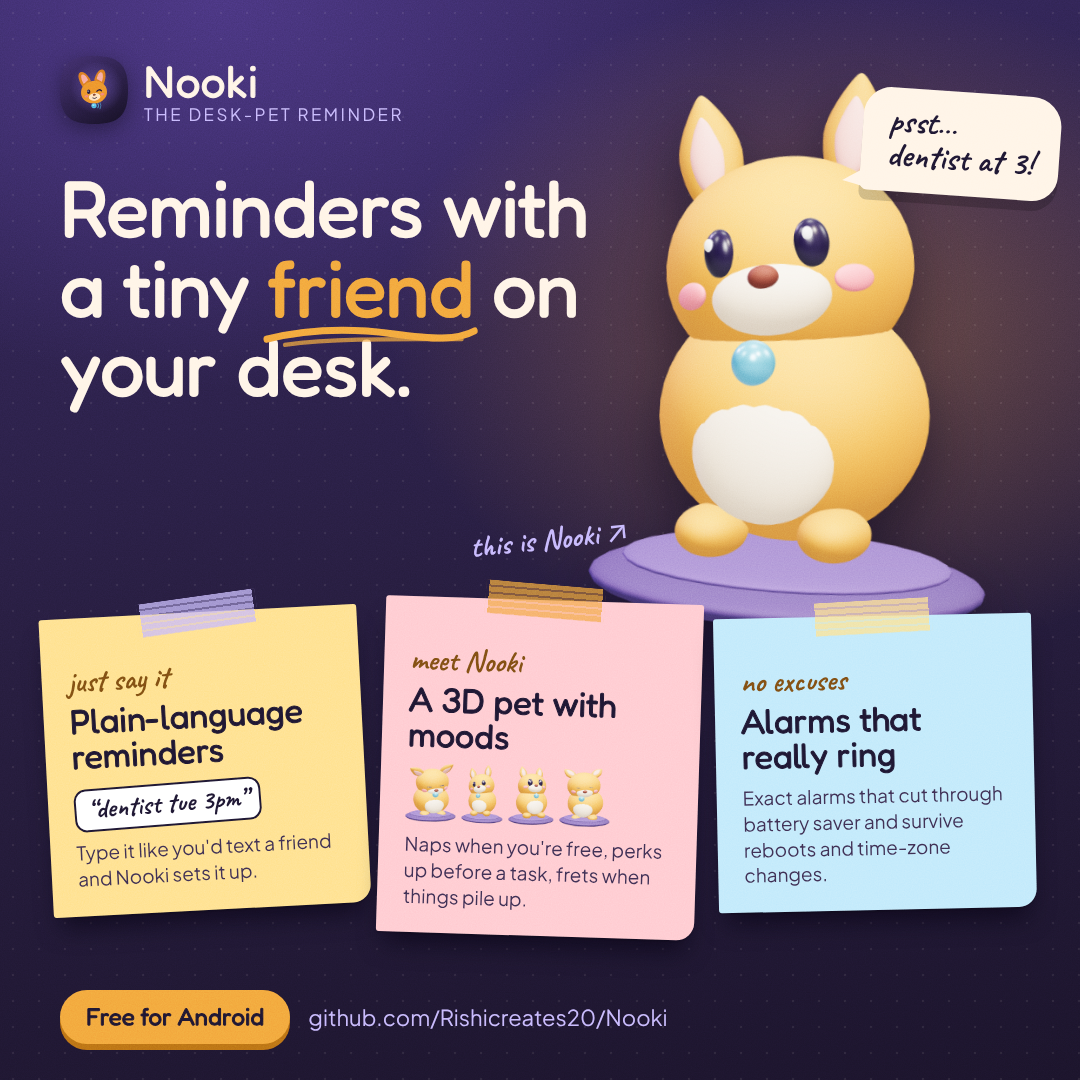
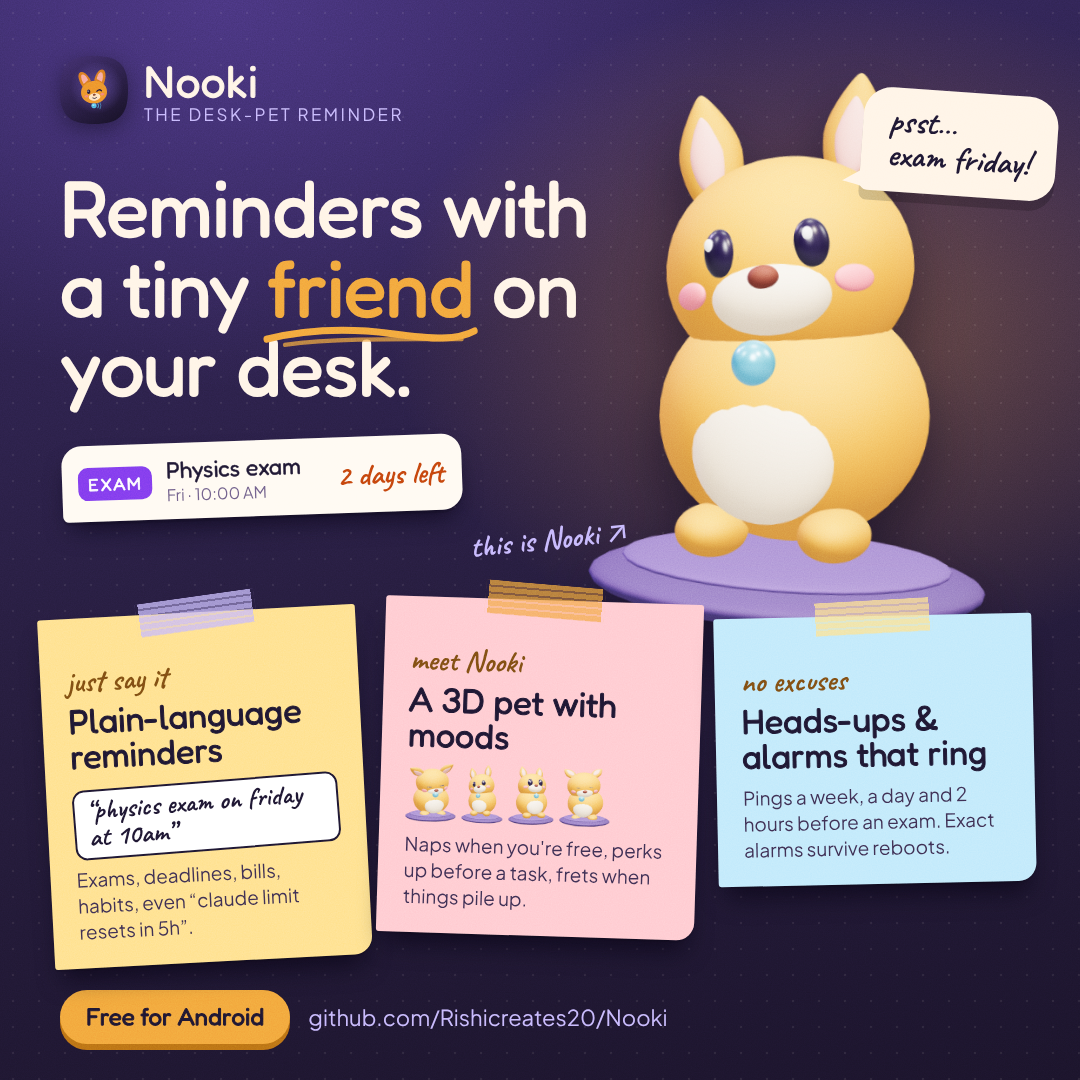
Add workflow tracking to the README, posters and how-to guide
Show exams, deadlines, AI limit resets, bills and habits with their
heads-ups, repeats, countdowns and mood rules. The posters gain countdown
cards and the "physics exam on friday at 10am" and "claude limit resets
in 5h" examples. The README notes these ship with PR #3.

Claude-Session: https://claude.ai/code/session_01JYCCJ8iHHMY3GKC5zgm7JK

diff --git a/README.md b/README.md
@@ -24,6 +24,16 @@ Nooki sits on your desk, which here means your home screen. It naps when nothing
 when a reminder is coming, and gets visibly flustered when tasks pile up. Reminders fire on time
 through exact alarms, and they survive reboots, time-zone changes and app updates.
 
+Tell it what's coming in plain words, like *"physics exam on friday at 10am"* or
+*"claude limit resets in 5h"*, and Nooki works out the time, what kind of thing it is, and when to
+give you a heads-up.
+
+> [!NOTE]
+> Plain-language quick add and workflow tracking (exams, deadlines, AI limit resets, bills, habits,
+> heads-ups, repeats and countdowns) ship with
+> [PR #3](https://github.com/Rishicreates20/Nooki/pull/3), which is still in review. Builds from
+> `main` don't have them yet.
+
 <p align="center">
   <img src="docs/nooki-pet-moods.png" alt="Nooki's four moods: Sleeping, Happy, Alert, Overwhelmed" />
   <br/>
@@ -35,6 +45,7 @@ through exact alarms, and they survive reboots, time-zone changes and app update
 - [How to use Nooki](#how-to-use-nooki)
 - [Get the app](#get-the-app)
 - [Features](#features)
+- [Workflow tracking](#workflow-tracking)
 - [Tech stack](#tech-stack) · [Architecture](#architecture)
 - [Custom 3D models](#custom-3d-models) · [Tests](#tests) · [Roadmap](#roadmap)
 - [Share Nooki](#share-nooki)
@@ -51,10 +62,12 @@ through exact alarms, and they survive reboots, time-zone changes and app update
 2. **Allow the asks.** If Nooki shows **Allow Notifications** or **Enable Exact Alarms**, tap it
    so reminders ring on time. Each button only appears while that permission is missing, and older
    Android versions need neither.
-3. **Tell Nooki.** Add a reminder with a title and a time. With quick add
-   ([#3](https://github.com/Rishicreates20/Nooki/pull/3), in review) you just type
-   *"call mom tomorrow at 6pm"* and tap **Remind me**.
-4. **Watch the mood.** Nooki reacts to what's due. Tap it for a happy bounce.
+3. **Tell Nooki.** Type *"physics exam on friday at 10am"* or *"claude limit resets in 5h"* and
+   tap **Remind me**. Nooki spots exams, deadlines, bills and habits on its own.
+   *(Quick add ships with [#3](https://github.com/Rishicreates20/Nooki/pull/3). On `main` you pick
+   the title and time yourself.)*
+4. **Nooki keeps watch.** It sends heads-ups before exams, deadlines and bills, shows a countdown on
+   every card, and its mood follows what's due. Tap it for a happy bounce.
 5. **When it rings,** tap **Complete** (+XP) or **Snooze 5m** on the notification, or swipe it
    away to dismiss.
 
@@ -83,9 +96,12 @@ Release signing, per-ABI APKs and sideloading troubleshooting are covered in
 
 ## Features
 
-- **Plain-language quick add** *(in review, [#3](https://github.com/Rishicreates20/Nooki/pull/3))*.
-  Type a reminder the way you'd text a friend, like "dentist tue 3pm", and Nooki works out the
-  date and time.
+- **Plain-language quick add** *([#3](https://github.com/Rishicreates20/Nooki/pull/3))*. Type a
+  reminder the way you'd text a friend, like "physics exam on friday at 10am", and Nooki works out
+  the date, time, kind and repeat. If you leave out the time, it asks.
+- **Workflow tracking** *([#3](https://github.com/Rishicreates20/Nooki/pull/3))*. Exams, deadlines,
+  AI limit resets, bills and habits each get their own heads-ups, repeats, countdown and mood rules.
+  See [Workflow tracking](#workflow-tracking).
 - **Real-time 3D companion.** An original glTF model rendered with SceneView (Filament). It has
   four mood animations, a spring squash-and-stretch with haptics when you tap it, and a lean that
   follows your phone's tilt via the gravity sensor.
@@ -103,6 +119,27 @@ Release signing, per-ABI APKs and sideloading troubleshooting are covered in
   between moods, contextual color shifts, spring physics, and Fredoka + Plus Jakarta Sans
   typography.
 - **Adaptive icon** with a themed (monochrome) layer for Android 13+.
+
+## Workflow tracking
+
+> Ships with [PR #3](https://github.com/Rishicreates20/Nooki/pull/3).
+
+Nooki reads the kind of reminder from your words and treats each one differently:
+
+| Kind | Say something like | Heads-ups before it | How it affects Nooki |
+| --- | --- | --- | --- |
+| Exam | "physics exam on friday at 10am" | 1 week, 1 day, 2 hours | Awake a day ahead, Alert in the last 3 hours. A missed one counts double. |
+| Deadline | "assignment due monday 11:59pm" | 3 days, 1 day, 3 hours | Awake a day ahead, Alert in the last 3 hours. A missed one counts double. |
+| AI limit reset | "claude limit resets in 5h" | none | Good news only. It never stresses Nooki, and Nooki is Happy when it rings. |
+| Bill or renewal | "netflix renews on the 15th" | 3 days, 1 day | Awake a day ahead, Alert in the last hour. A missed one counts double. |
+| Habit | "take vitamins every day at 9pm" | none | Same as a normal task. |
+
+- **Your own heads-ups.** Add them in plain words: *"maths exam on dec 3, remind me 2 days before
+  and 1 hour before"*.
+- **Repeats.** Every day, every weekday, every week, every month or every year, keeping the same
+  time. A monthly bill on the 31st lands on the last day of shorter months.
+- **Countdowns.** Every card shows what's left, like "2 days left", "5 h left" or "12 min left".
+  Heads-up notifications are quieter than the alarm itself.
 
 ## Tech stack
 
